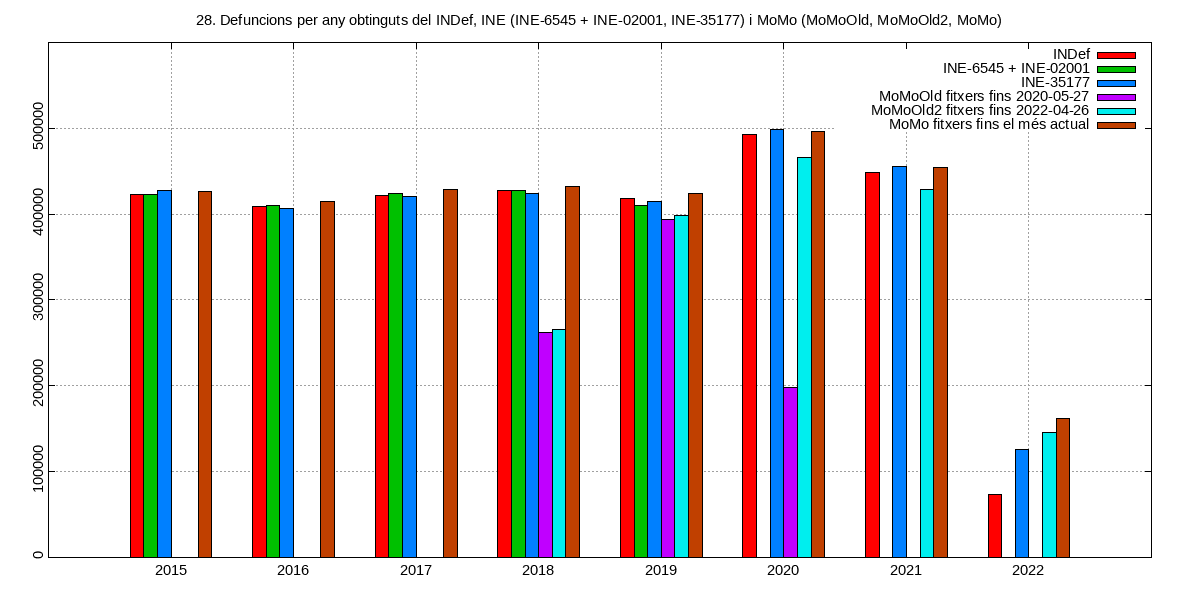
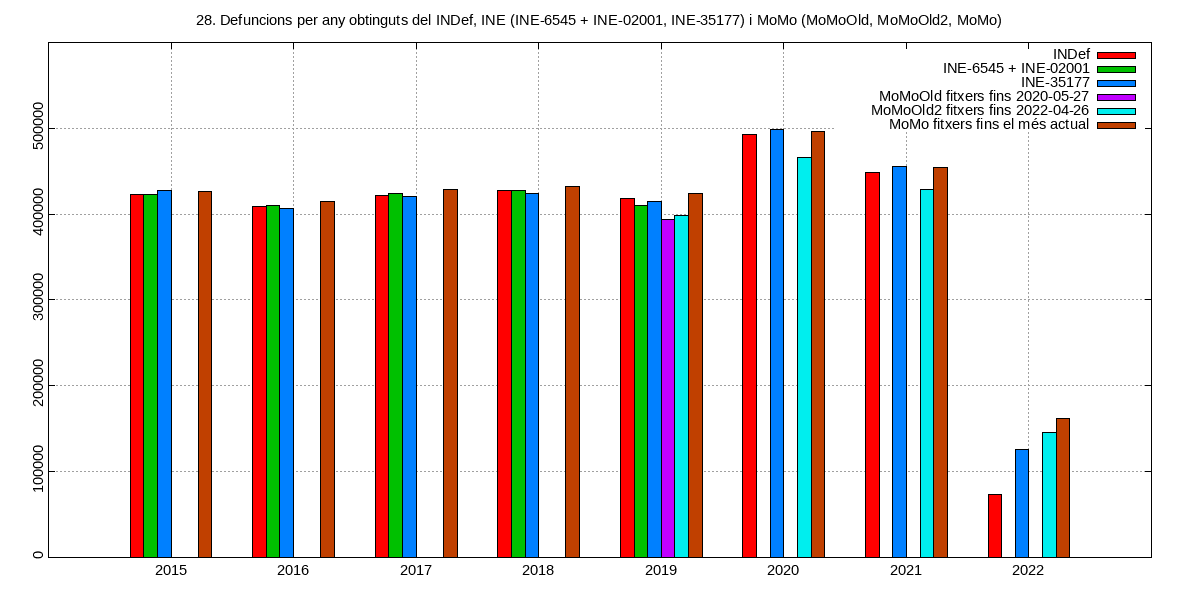
Treure dades que no es poden comparar al plot28

Changed region(s): [[0.4317, 0.54, 0.4933, 0.93], [0.6475, 0.63, 0.6783, 0.93]]

diff --git a/php/plot28.php b/php/plot28.php
@@ -43,6 +43,11 @@ if (!file_exists("output/plot28${lang}.png")) {
             $matrix[$val[0]][6] = $val[1];
         }
     }
+    // TREURE DADES INCOMPLETES
+    $matrix[2018][4] = 0;
+    $matrix[2018][5] = 0;
+    $matrix[2020][4] = 0;
+    // CONTINUAR
     array_unshift($matrix, array(
         "Year",
         "INDef",
